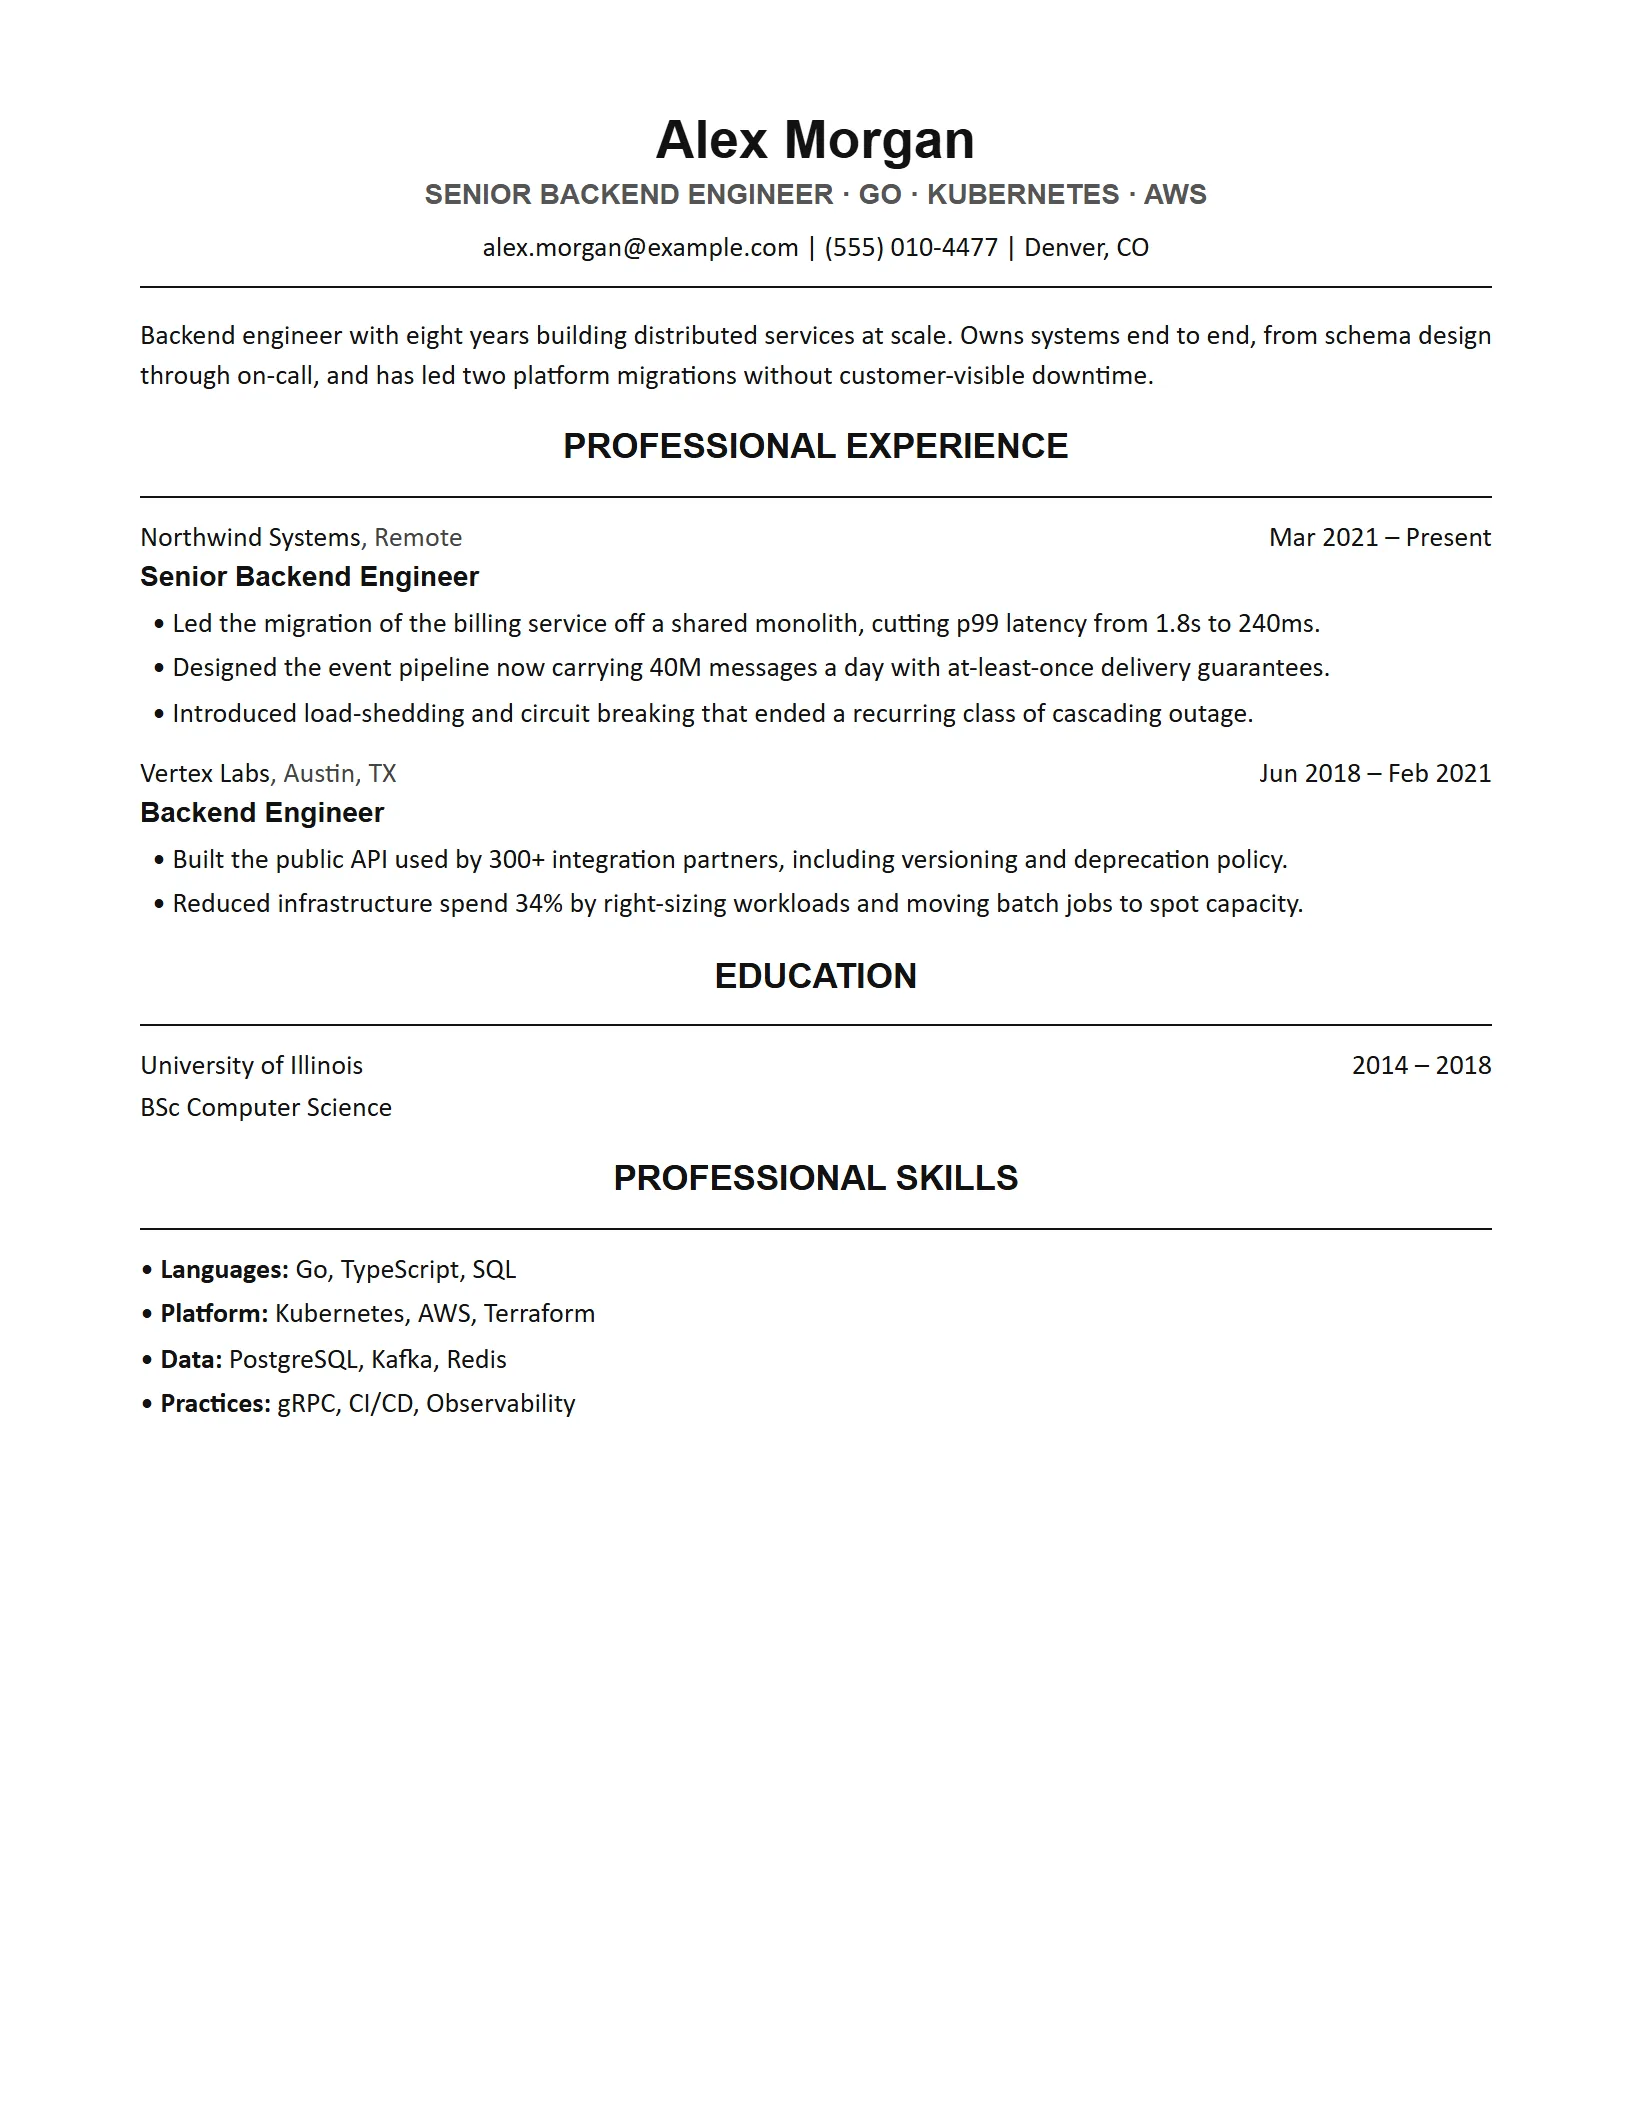
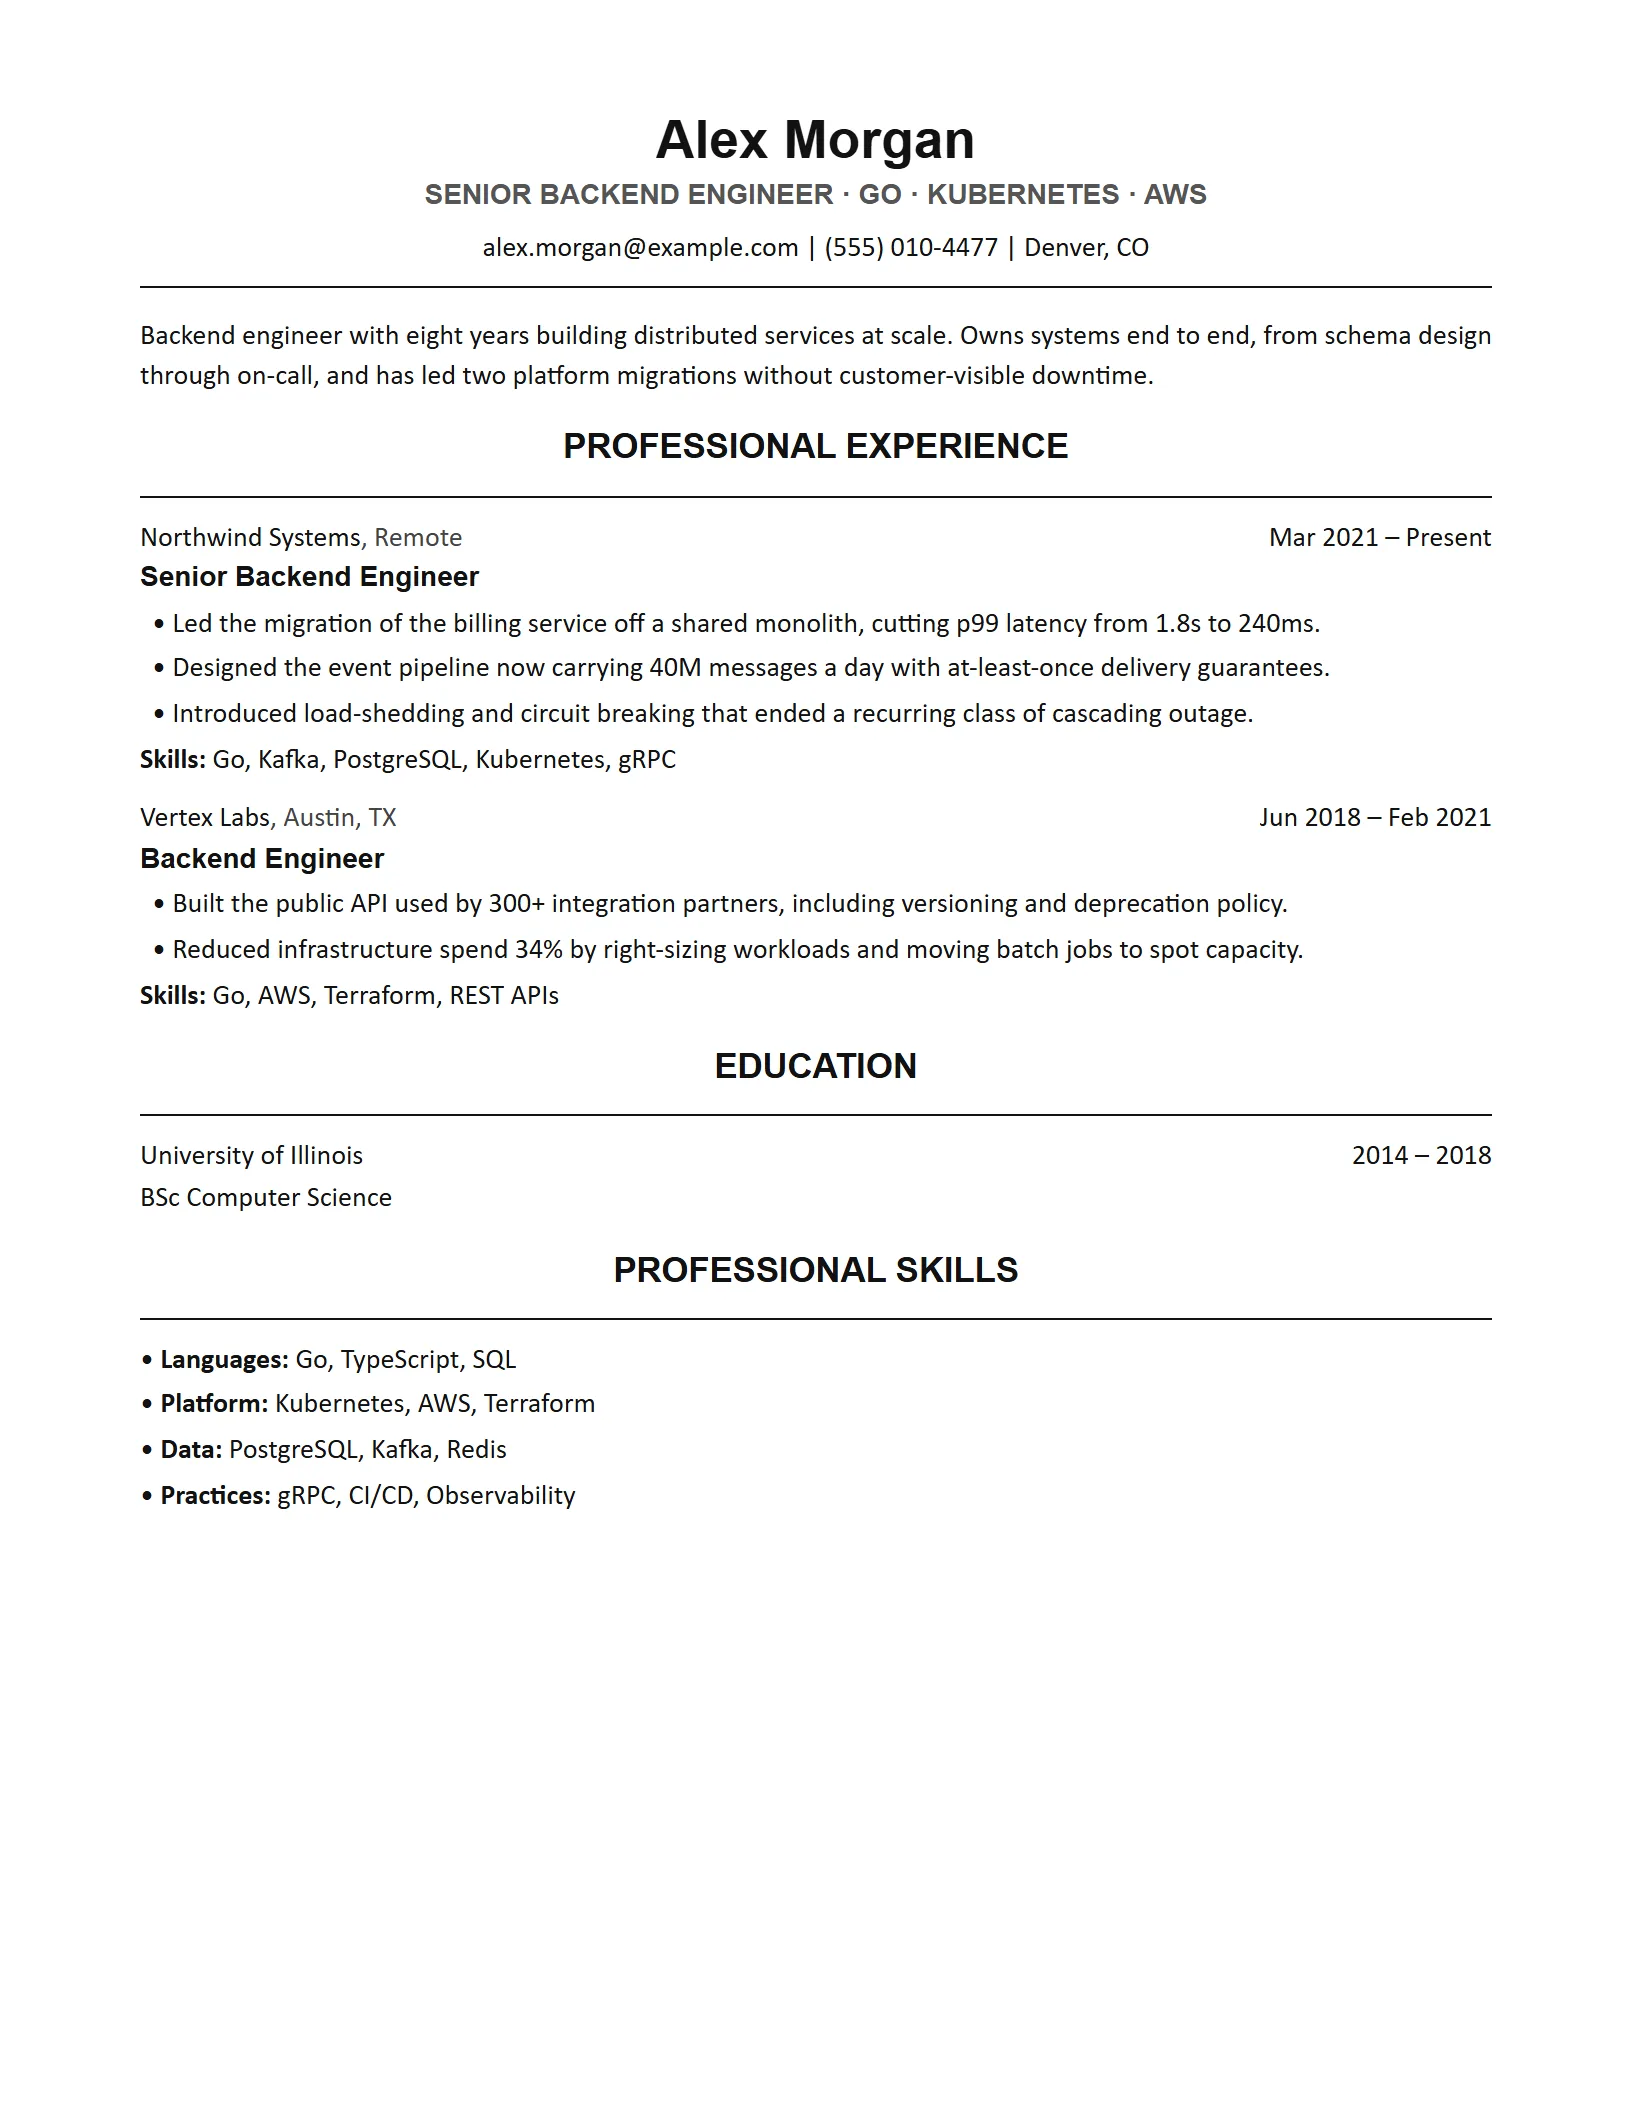
feat: add skills field to TailoredResume and display in ResumeGenerator

diff --git a/app/components/resume-generator.tsx b/app/components/resume-generator.tsx
@@ -32,6 +32,8 @@ export interface TailoredResume {
     period: string;
     location: string;
     bullets: Flagged[];
+    /** What this role was built with. Absent on resumes saved before the field existed. */
+    skills?: string[];
   }[];
   education: { institution: string; degree: string; period: string }[];
   gaps: string[];
@@ -673,6 +675,12 @@ export function ResumeGenerator({
                   </li>
                 ))}
               </ul>
+              {e.skills && e.skills.length > 0 && (
+                <p className="mt-1.5 text-xs text-[var(--muted)]">
+                  <span className="font-medium text-[var(--text)]/80">Skills:</span>{' '}
+                  {e.skills.join(', ')}
+                </p>
+              )}
             </div>
           ))}
 
